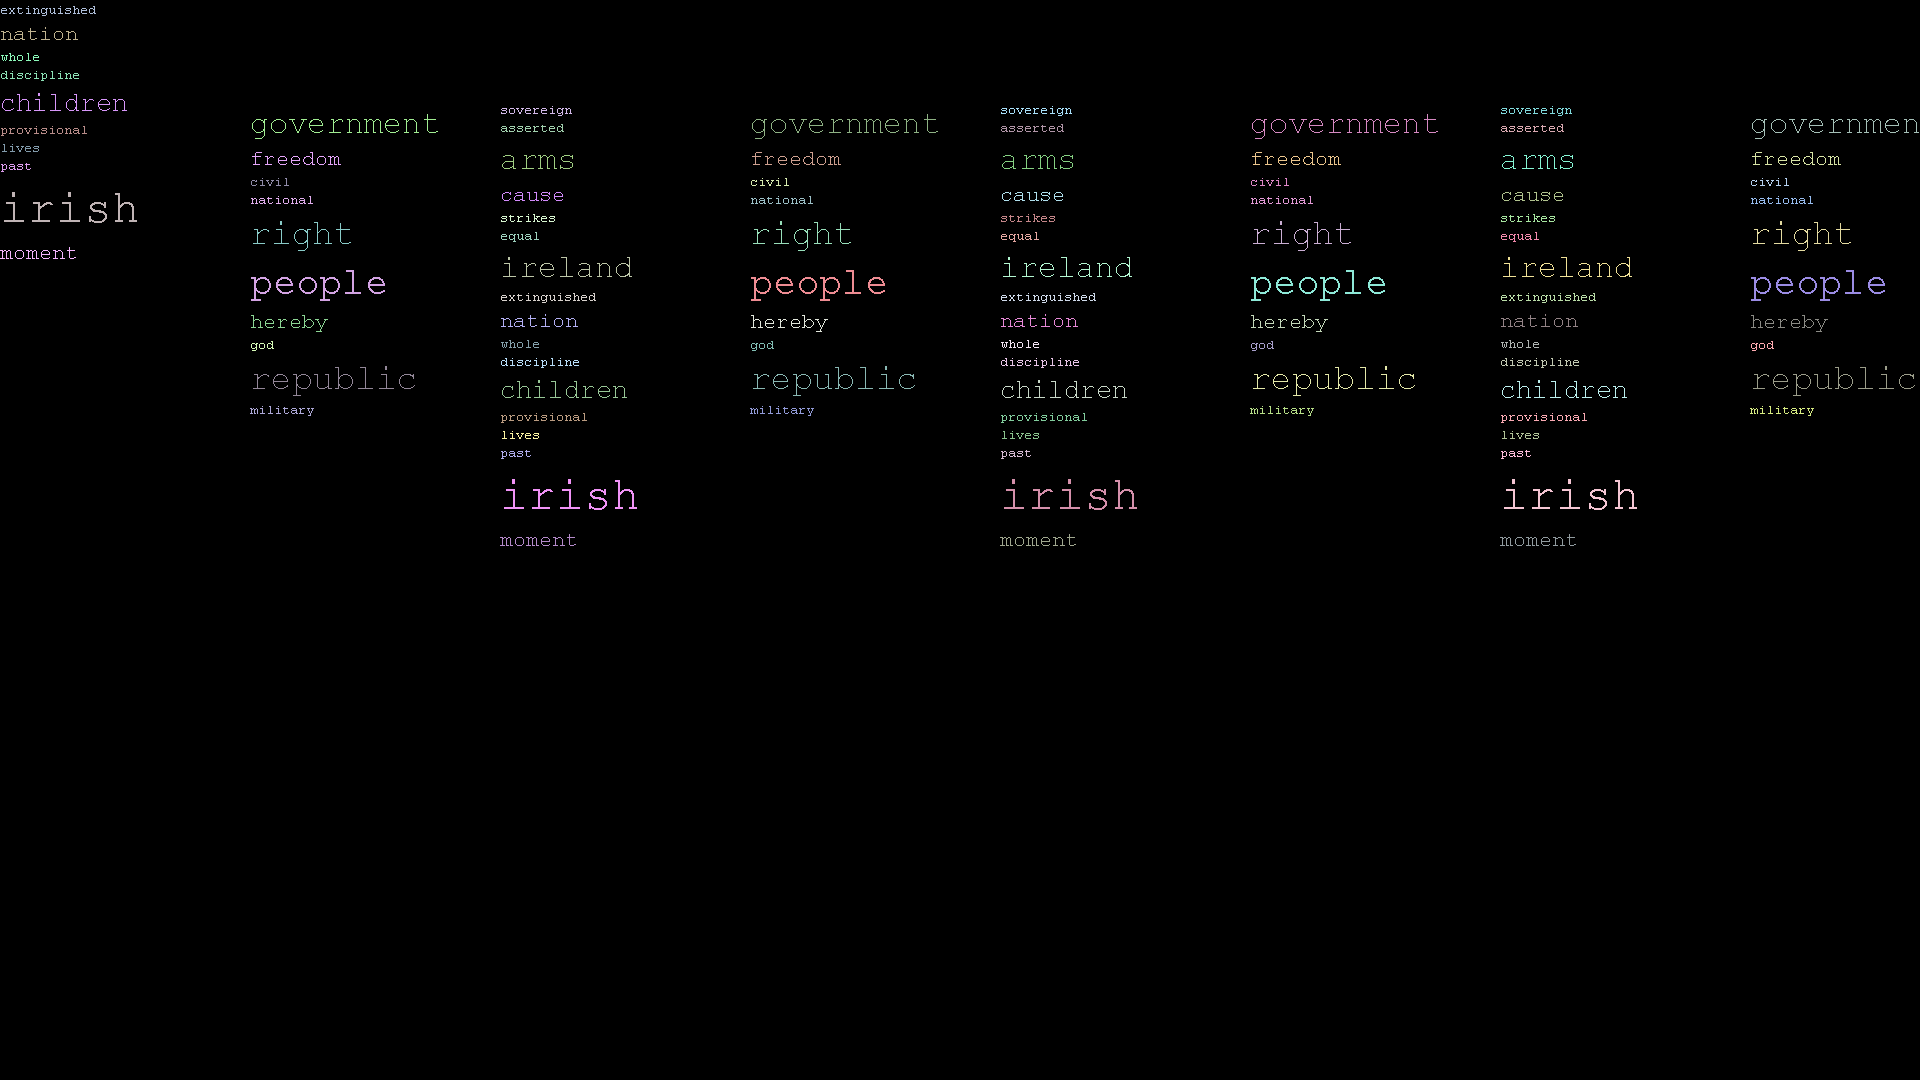
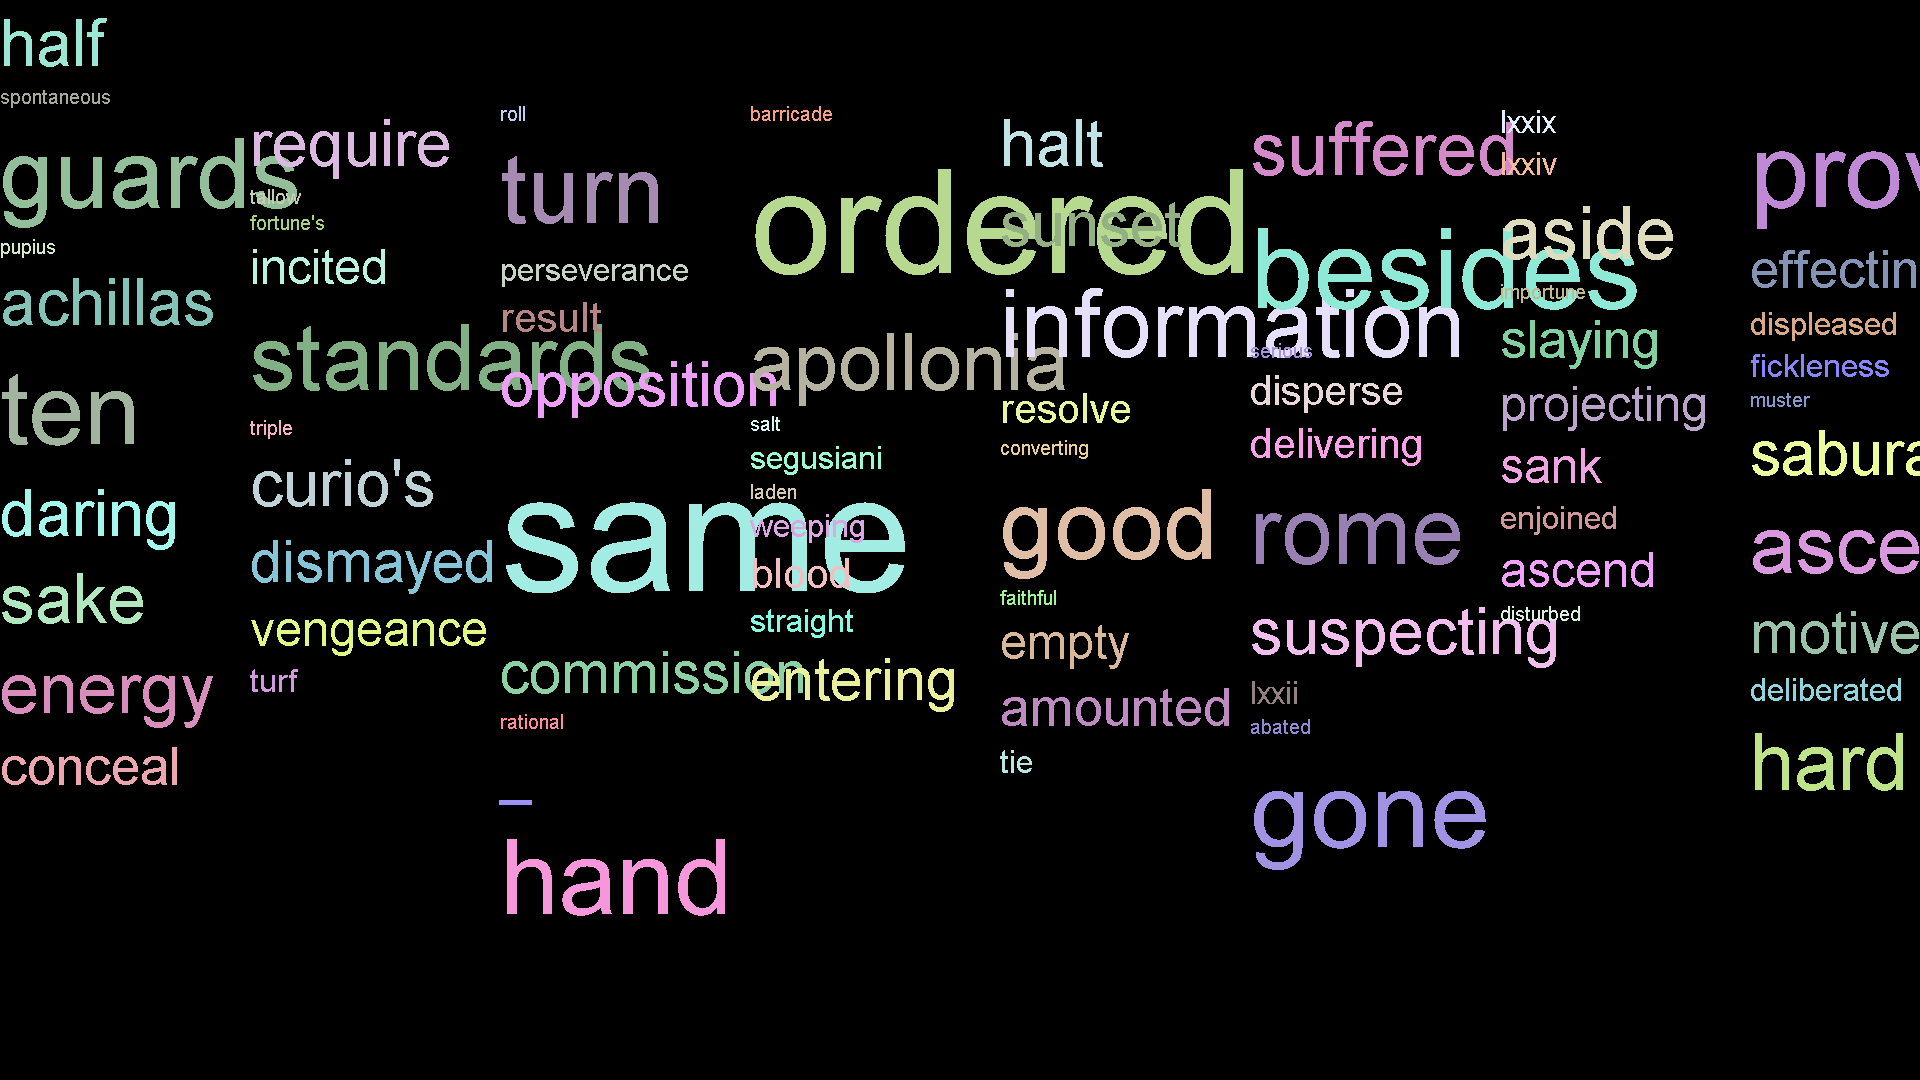
image tests

diff --git a/src/ie/gmit/sw/Parser.java b/src/ie/gmit/sw/Parser.java
@@ -1,4 +1,4 @@
-package sw.gmit.ie;
+package ie.gmit.sw;
 
 import java.io.InputStreamReader;
 import java.util.HashMap;
@@ -12,6 +12,7 @@ public class Parser extends IgnoreWords{
 	Scanner s = new Scanner(System.in);
 	
 	public Parser(String file) throws Exception {
+		//Calling super() which allows us to access Super class members, e.g Split()
 		super();
 		stream(file);
 	}
@@ -20,6 +21,7 @@ public class Parser extends IgnoreWords{
 		
 		/*
 		 * Using a BufferedReader to stream in the text from the files,
+		 * StringBuffer allows us to append/add each string value to the HashMap.
 		 * Courtesy of labratory examples.
 		 */
 		BufferedReader br = new BufferedReader(new InputStreamReader(new FileInputStream(file)));
@@ -37,17 +39,25 @@ public class Parser extends IgnoreWords{
 				String word = sb.toString().toLowerCase();
 				sb = new StringBuffer();
 				
-				// This will add words and how often they occur to the hashMap, which can then be called by other classes
+				/*
+				 * As specified in the brief here is the required Frequency table,
+				 * String is passed in and the increment of Frequency counts its occurences.
+				 * (word, frequency) 
+				 * word : displays the string
+				 * frequency : (Integer)
+				 */
 				if(!split(word) && word.length() > 0){
 					int frequency = 0;	
 					if(list.containsKey(word)){
 						frequency = list.get(word);				
 					}
 					frequency++;
+					//Passign the (key, value)
 					list.put(word, frequency);
 				}
 			}
 		}	
+		//Good practice.
 		br.close();
 		setList(list);
 		return list;

diff --git a/src/ie/gmit/sw/GenerateImage.java b/src/ie/gmit/sw/GenerateImage.java
@@ -1,4 +1,4 @@
-package sw.gmit.ie;
+package ie.gmit.sw;
 
 import java.awt.*;
 import java.awt.image.*; 
@@ -74,8 +74,12 @@ public class GenerateImage{
 	}
 	
 	public int drawWord(String word, int wordFreq, int x, int y) {
-		int fontSize = (int)(Math.log(wordFreq)*20);	
-		Font font = new Font(Font.DIALOG_INPUT, Font.ROMAN_BASELINE, fontSize);
+		
+		int fontSize = (int)(Math.log(wordFreq)*30);	
+	//	int fontSize = (int)(Math.log(wordFreq)*20);	
+	//	int fontSize = (int)(Math.log(wordFreq)*40);	
+
+		Font font = new Font(Font.MONOSPACED, Font.ROMAN_BASELINE, fontSize);
 		allColors = randColour();
 		graphics.setColor(allColors);
 		graphics.setFont(font);
@@ -91,13 +95,18 @@ public class GenerateImage{
 	 * Generates random numbers, which is then feed into the colour generator.
 	 * Rand numbers are limited, so that it only will result in lighter colours, making them easy to see on the dark background
 	 */
+
 	public Color randColour() {
-		float r = (float) (rand.nextFloat() / 2f + 0.5);
-		float g = (float) (rand.nextFloat() / 2f + 0.5);
-		float b = (float) (rand.nextFloat() / 2f + 0.5);
 		
-		Color colour = new Color(r, g, b);
+	
+		float red = (float) (rand.nextFloat() / 4f + 0.5);
+		float green = (float) (rand.nextFloat() / 4f + 0.5);
+		float blue = (float) (rand.nextFloat() / 4f + 0.5);
+
+		
+		Color colour = new Color(red, green, blue);
 		return colour;
-	}
+		}
+	
 
 }

diff --git a/src/ie/gmit/sw/Runner.java b/src/ie/gmit/sw/Runner.java
@@ -1,4 +1,4 @@
-package sw.gmit.ie;
+package ie.gmit.sw;
 
 import java.io.File;
 import java.net.URL;
@@ -32,6 +32,7 @@ public class Runner {
 				
 				//Parser object to pass the input of sFile to be passed through the Parser, it is then used as a paramater in creating the image.
 				Parser p = new Parser(sFile);
+				p.parse(sFile);
 				//SETTING THE FILE NAME 
 				System.out.println("Enter the Image name :");
 				fname = s.next();

diff --git a/src/ie/gmit/sw/RunningTime.java b/src/ie/gmit/sw/RunningTime.java
@@ -1,4 +1,4 @@
-package sw.gmit.ie;
+package ie.gmit.sw;
 
 public class RunningTime {
 	public static void main(String[] args) throws Exception{

diff --git a/src/ie/gmit/sw/IgnoreWords.java b/src/ie/gmit/sw/IgnoreWords.java
@@ -1,4 +1,4 @@
-package sw.gmit.ie;
+package ie.gmit.sw;
 
 import java.io.BufferedReader;
 import java.io.FileInputStream;

diff --git a/src/ie/gmit/sw/URLParser.java b/src/ie/gmit/sw/URLParser.java
@@ -1,4 +1,4 @@
-package sw.gmit.ie;
+package ie.gmit.sw;
 
 import java.io.BufferedReader;
 import java.io.FileInputStream;
